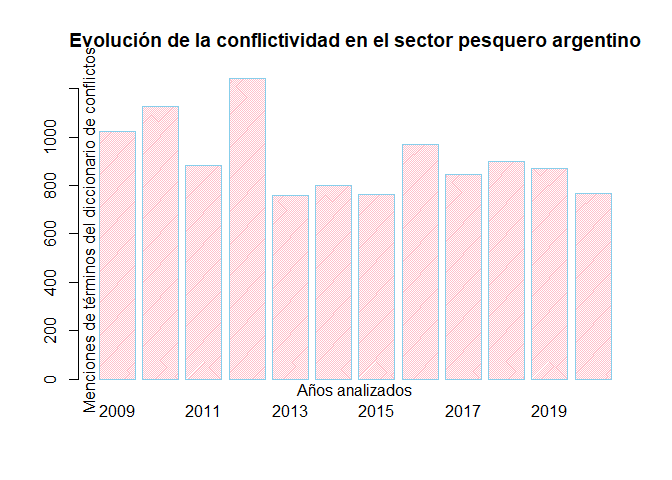
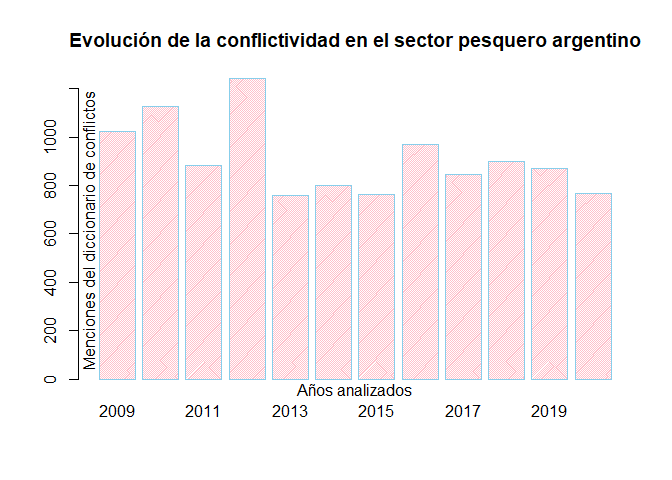
Actualización

Changed region(s): [[0.125, 0.0938, 0.1562, 0.875]]

diff --git a/README.md b/README.md
@@ -27,9 +27,11 @@ MIT](https://img.shields.io/badge/license-MIT-blue.svg)](https://cran.r-project.
 
 ACEP es un paquete de funciones en lenguaje R útiles para la detección y
 el análisis de eventos de protesta en corpus de textos periodísticos.
-Contiene también base de datos con colecciones de notas sobre protestas
-y una colección de diccionarios de palabras conflictivas y otros tópicos
-referidos a otros aspectos del análisis de eventos protesta.
+Sus funciones son aplicables a cualquier corpus de textos. Además de las
+funciones, ACEP contiene también base de datos con colecciones de notas
+sobre protestas y una colección de diccionarios de palabras conflictivas
+y otros tópicos referidos a otros aspectos del análisis de eventos
+protesta.
 
 ### Instalación de la versión en desarrollo
 
@@ -372,7 +374,7 @@ rp_procesada |> head()
 acep_plot_st(rp_procesada$st, rp_procesada$frecm,
              t = 'Evolución de la conflictividad en el sector pesquero argentino',
              ejex = 'Años analizados',
-             ejey = 'Menciones de términos del diccionario de conflictos',
+             ejey = 'Menciones del diccionario de conflictos',
              etiquetax = 'horizontal')
 ```
 
